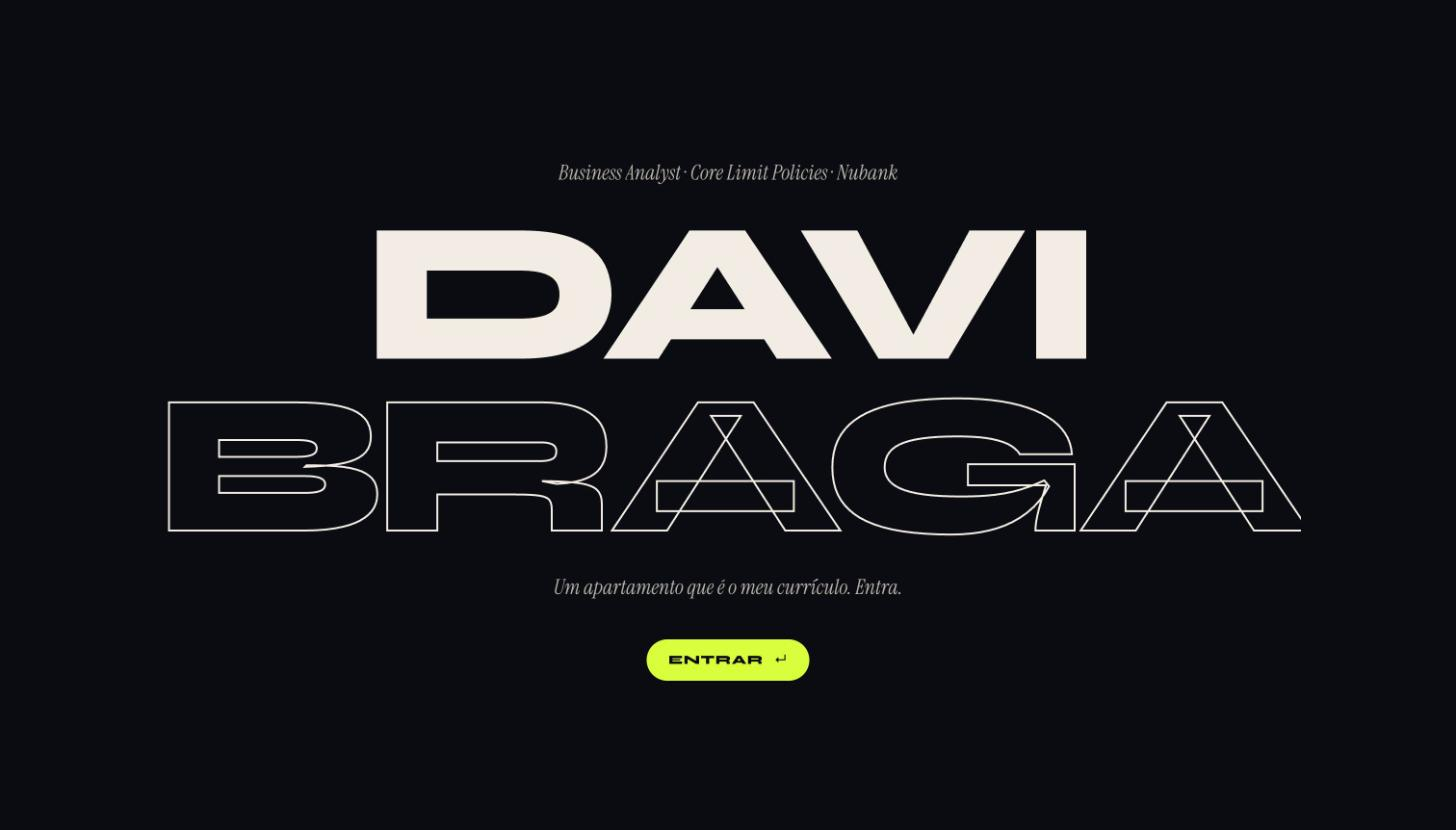
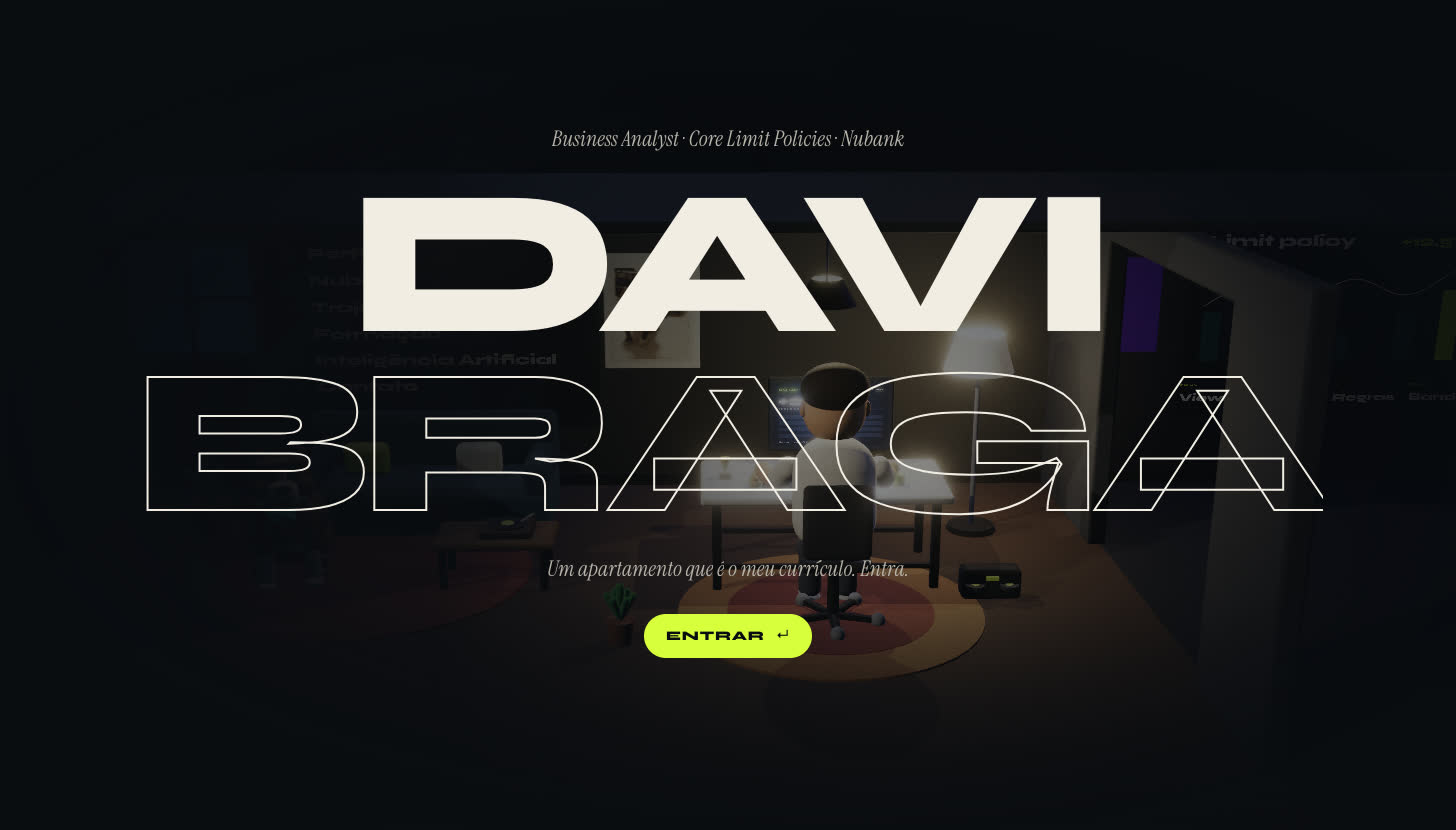
docs: describe the scroll tour and "Fale com o Davi" in the README
The README now matches the site: the ScrollTrigger tour, the Motion
choreography, post-processing, quality tiers, lazy chunks and the
reduced-motion and no-WebGL fallbacks, the ready-made question panel
(no AI behind it), the controls, the stack, how to run the unit and
end-to-end tests, and the performance numbers from the tour work. It
drops what no longer exists: the Observer input, the old phone render
path and main.ts waiting for the fonts. The screenshots are refreshed
and one shows the question panel; the Author section is unchanged.

Changed region(s): [[0.0927, 0.1506, 0.8963, 0.8434]]

diff --git a/README.md b/README.md
@@ -1,10 +1,10 @@
 # davi-diorama
 
-Davi Braga's résumé as an interactive 3D apartment: walk through six rooms, click the objects, read the career.
+Davi Braga's résumé as an interactive 3D apartment: scroll through six rooms, click the objects, read the career, or ask Davi a ready-made question and watch the room answer.
 
-[![A clay-style avatar sits at a desk in a dim 3D living room; the first slide, with the name and a short introduction, is on the left.](docs/diorama-scene.jpg)](https://davi-diorama.vercel.app)
+[![The Nubank room of the 3D apartment: the slide "Core Limit Policies" on the left, a monitoring board on the wall and the clay avatar of Davi standing on the right.](docs/diorama-scene.jpg)](https://davi-diorama.vercel.app)
 
-**[Live demo: davi-diorama.vercel.app](https://davi-diorama.vercel.app)** (the site text is in Portuguese)
+**[Live demo: davi-diorama.vercel.app](https://davi-diorama.vercel.app)** (the site text is in Portuguese; the question panel also speaks English)
 
 [![Live demo](https://img.shields.io/badge/live%20demo-davi--diorama.vercel.app-d8ff3d?style=flat-square&labelColor=0a0c11&logo=vercel&logoColor=white)](https://davi-diorama.vercel.app)
 [![License: MIT](https://img.shields.io/badge/license-MIT-blue?style=flat-square)](LICENSE)
@@ -15,52 +15,87 @@ Davi Braga's résumé as an interactive 3D apartment: walk through six rooms, cl
 
 ## What it is
 
-davi-diorama is a résumé built as a small 3D world instead of a document. A clay-style avatar of Davi starts seated at his desk; scrolling, swiping or pressing a key walks him down a corridor from room to room (profile, Nubank, earlier jobs, education, applied AI, contact) while the camera follows. Objects in the scene open details, play sounds or react when clicked. It is a static front-end app written in TypeScript on top of Three.js, with no backend.
+davi-diorama is a résumé built as a small 3D world instead of a document. A clay-style avatar of Davi starts seated at his desk; one scroll-driven tour walks him down a corridor from room to room (profile, Nubank, earlier jobs, education, applied AI, contact) while the camera follows, and every room is anchored on the object that tells that part of the story. Objects open details, play sounds or react when clicked. "Fale com o Davi" adds a guided conversation: ready-made questions with first-person answers written from the résumé data, played back while the camera and the avatar move. It is a static front-end app written in TypeScript on top of Three.js, with no backend and no AI model behind it.
 
-![Intro screen: "Davi Braga" in large type with a job-title line above it, a one-line subtitle and an "entrar" (enter) button on a dark background.](docs/diorama-intro.jpg)
+![Intro screen: "Davi Braga" in large type over a dim view of the apartment, a job-title line above it, a one-line subtitle and an "entrar" (enter) button.](docs/diorama-intro.jpg)
 
 ## Highlights
 
-- **Walk-through navigation.** Arrow keys, space, PageUp/PageDown, the mouse wheel, a swipe or the keys 1 to 6 move between the six rooms; the section rail and the index (the board on the wall, or the M key) jump straight to one. The avatar stands up, walks the corridor and turns to face each room, driven by GSAP timelines (`src/story.ts`).
-- **A scene you can poke.** The monitor cycles six screens (limit monitoring, SQL, contact, experiment, n8n flow, notebook), the floor lamp toggles a night mode, the boombox and the turntable start a lo-fi loop that makes the wall boards pulse, and the mug, plants, ball, clock, window and string lights react. The dog, Banguela, barks when clicked (typing his name works too).
-- **Everything is generated in code.** The apartment, avatar and dog are built from Three.js primitives with a matte clay material, the wall screens are animated canvas textures, and all sound is synthesized with the Web Audio API. The scene uses no 3D model or audio files, only one photo (the dog's portrait on the wall).
-- **Résumé as data.** Experience, education, skills, projects and thesis live in typed files in `src/data/`. Clicking a board, nameplate or chip opens a side panel (the "dossier") built from them, and some panels include small illustrations: an n8n-style flow runner, a skill before/after toggle, an MCP tool-call viewer, a knapsack picker and test-vs-control bars. The charts drawn in the scene and in these cards are animated illustrations, not company data; the experiment screen and the test-vs-control card say so in the UI.
-- **Phone-friendly.** At 900 px wide or less the app uses a lighter render path (no shadows or antialiasing, capped pixel ratio), a different camera framing, swipe navigation and a bottom-sheet panel.
-- **Layout guard.** The walking route is checked against the furniture footprints when the app starts (`assertWalkRoute` in `src/path.ts`) and by a standalone script, `npm run test:path`.
+- **One scroll tour.** Scroll, trackpad, touch, the keyboard, the section rail and the summary all move a single GSAP timeline scrubbed by ScrollTrigger over a native scroller (`src/tour.ts`). The timeline only moves one number, the tour progress; the camera rides Catmull-Rom splines through one shot per chapter and cranes up between rooms, Davi stands up, walks and sits down again as a function of that same number (`daviAt` in `src/path.ts`), so scrolling back replays everything in reverse. Labels snap to the nearest chapter, and rooms light up as the camera arrives.
+- **Choreographed HUD.** [Motion](https://motion.dev) drives the text and buttons: titles rise letter by letter on a spring, the counters count up to the slide copy, chips and metrics stagger in, buttons press with a spring and the dossier slides in as a modal dialog with its own focus trap.
+- **A scene you can poke.** Hover shows a label and a soft lime highlight; a click frames the object with a smooth camera move (with depth of field on the high tier) and a "voltar" button, and Esc, scroll or a click on empty space returns to the tour. The desk PC plays a live dashboard, the floor lamp toggles a night mode, the boombox and the turntable start a lo-fi loop that makes the wall boards pulse, and the mug, plants, ball, clock, window and string lights react. The dog, Banguela, barks when clicked (typing his name works too).
+- **"Fale com o Davi".** A side panel (a bottom sheet on phones) with 13 ready-made questions in Portuguese and English, opened by the floating button, the chip in the toolbar or the T key. Each answer is written in the first person only from `src/data` (the tests check that every number in an answer already exists there and that no answer passes 80 words), types out with subtitles over the scene, and drives the tour through `sceneApi()` in `src/story.ts`: the camera glides to the matching chapter, frames the board it talks about, and the matching card opens; Davi turns to the viewer, talks and gestures (wave, nod, think, point). There is no text box and nothing is generated; the panel says so ("Respostas prontas, escritas a partir do currículo do Davi"). An optional voice uses the browser's own speech synthesis. While the panel is open the tour under it holds still, and Esc closes the panel first.
+- **Rendering that fits the device.** `src/quality.ts` guesses a low, mid or high tier from the GPU and the device, then corrects it from real frame intervals (pixel ratio first, the tier last); `?q=low|mid|high` pins a tier. `src/post.ts` merges bloom, ACES tone mapping, vignette and grain into one pass, with depth of field as a separate pass only while an object is in focus. Static meshes are batched by material and room (189 meshes become 52 draws), and the shadow maps redraw only when something moves.
+- **Fast first paint, lazy everything else.** `main.ts` paints the intro and a real progress bar; the 3D engine downloads after the first paint as its own chunk, the room is built in short tasks, shaders and textures warm up behind the intro, post-processing is another chunk, and the question panel loads on its first open.
+- **Fallbacks and access.** With reduced motion, chapters cut with a short fade, Davi is placed instead of walking, counters show their final values and the question panel shows each answer at once and only highlights the chapter in the rail. Without WebGL the same résumé (slides, rail, keys, cards, questions) runs over a still of the room. On phones the room fills the top half above the card, titles shrink to fit and tap targets are 44 px. The HUD stays inert under the intro, both dialogs trap focus, and answers are announced with `aria-live`.
+- **Résumé as data.** Experience, education, skills, projects and thesis live in typed files in `src/data/`. Boards, nameplates and chips open cards built from them, some with small illustrations: an n8n-style flow runner, a skill before/after toggle, an MCP tool-call viewer, a knapsack picker and test-vs-control bars. The charts in the scene and in these cards are illustrations, not company data, and the screens and cards that show a number say so.
+- **Everything is generated in code.** The apartment, avatar and dog are built from Three.js primitives with a matte clay material, the wall screens are animated canvas textures and all sound is synthesized with the Web Audio API. The scene uses no 3D model or audio files, only one photo (the dog's portrait on the wall).
+- **Layout guard.** The walking route is checked against the furniture footprints when the app starts (`assertWalkRoute` in `src/path.ts`), the tour is sampled in development so Davi never overlaps furniture (`assertTourClear`), and `npm run test:path` runs the corridor check on its own.
+
+![The question panel open on the left with the answer to "O que você faz no Nubank?", follow-up questions below it, and the camera framing the Core Limit board on the right with a subtitle under it.](docs/diorama-talk.jpg)
+
+## Performance
+
+Measured on the production build when the tour was rebuilt:
+
+- Lighthouse mobile performance 89 → 97
+- Total Blocking Time 331 → 87 ms
+- Entry chunk 14.8 kB; the question panel later added 0.3 kB to it, a 2 kB loader once the room is ready and a 38 kB chunk that loads on its first open
 
 ## How it works
 
 ```mermaid
 flowchart LR
-  main["main.ts<br/>waits for fonts"] --> story["story.ts<br/>input, camera and walk timelines,<br/>picking, render loop"]
+  main["main.ts<br/>intro and loader,<br/>lazy 3D after first paint"] --> story["story.ts<br/>picking, focus, frame loop,<br/>sceneApi()"]
+  story --> tour["tour.ts<br/>ScrollTrigger timeline,<br/>camera path"]
+  story --> pathm["path.ts<br/>Davi's walk, furniture"]
   story --> world["world.ts<br/>rooms, props, lights"]
   story --> puppet["puppet.ts<br/>Davi and Banguela"]
-  story --> audio["audio.ts<br/>Web Audio"]
-  story --> copy["copy.ts<br/>slide and card text"]
-  story <--> hud["hud.ts<br/>slides, rail, dossier"]
+  story --> quality["quality.ts<br/>tiers, adaptive pixel ratio"]
+  story --> post["post.ts<br/>bloom, depth of field"]
+  story <--> hud["hud.ts<br/>slides, rail, dossier (Motion)"]
   world --> boards["boards.ts<br/>canvas screens"]
-  data["src/data/<br/>résumé content"] --> copy
+  data["src/data/<br/>résumé content"] --> copy["copy.ts<br/>slide and card text"]
   copy --> hud
   hud --> live["live.ts<br/>widgets inside cards"]
-  path["path.ts<br/>furniture and corridor"] --> story
+  main --> talk["talk/<br/>Fale com o Davi"]
+  talk -- "sceneApi()" --> story
+  data --> talk
 ```
 
-`main.ts` waits for the web fonts, then `story.ts` creates the WebGL renderer, builds the scene (`world.ts`, `puppet.ts`) and binds the HUD (`hud.ts`). The story keeps one piece of state, the current room. Moving to another room plays a GSAP timeline that tweens the camera, walks the avatar along the corridor and shows the matching slide. A pointer raycast finds the object under the cursor; each pickable object carries a `{ kind, id }` tag that either runs a small reaction or asks `copy.ts` for a card to show in the dossier.
+`main.ts` shows the intro and the loader at once, then imports `story.ts` after the first paint. The story opens one WebGL2 context, picks a quality tier, builds the room in short tasks (`world.ts`, `puppet.ts`, `batch.ts`), warms the shaders and binds the HUD (`hud.ts`). From then on a single number drives the page: ScrollTrigger maps the scroll position to the tour progress, and each frame derives the camera pose, Davi's pose, the lit room and the slide from it. A pointer raycast finds the object under the cursor; each pickable carries a `{ kind, id }` tag that runs a small reaction or asks `copy.ts` for a card.
+
+The question panel lives in `src/talk/`. `boot.ts` adds the entry points, `panel.ts` plays the answers in `qa.ts`, and `bridge.ts` talks to the scene only through `sceneApi()` (go to a chapter, focus an object, open a card, and Davi's puppet for the talk animation). `catalog.ts` lists the chapter, object and card ids an answer may use, and anything else is ignored.
 
 Inspiration: the diorama camera and the matte look are inspired by [david-hckh.com](https://david-hckh.com/) ([portfolio-2025](https://github.com/davidhckh/portfolio-2025)). No model or texture from that project is used here.
 
+## Controls
+
+| Input | What it does |
+| --- | --- |
+| Scroll, trackpad, swipe | Walk the tour (the wheel over the text column works too) |
+| ← → ↑ ↓, Space, PageUp, PageDown | Previous or next chapter |
+| Home, End, 1 to 6 | Jump to a chapter |
+| Click or tap an object | Frame it and open its card or reaction |
+| M | Summary |
+| C | Copy the contact e-mail |
+| S | Lo-fi music on and off |
+| T | Open "Fale com o Davi" |
+| Esc | Close the question panel, then a card, then leave the framed object |
+
 ## Tech stack
 
-- **3D:** Three.js r169 (WebGL)
-- **Motion and input:** GSAP 3 (timelines, `quickTo`, the Observer plugin for wheel and touch)
+- **3D:** Three.js r169 (WebGL2) and [postprocessing](https://github.com/pmndrs/postprocessing) for bloom, tone mapping and depth of field
+- **Motion and input:** GSAP 3 with ScrollTrigger and ScrollToPlugin for the tour, Motion for the HUD
 - **Language and tooling:** TypeScript 5 (strict mode), Vite 6
-- **Sound and textures:** Web Audio API and Canvas 2D, generated at runtime
-- **Fonts:** Syne, Instrument Serif and JetBrains Mono (Google Fonts)
+- **Tests:** Vitest (unit) and Playwright (end-to-end, Chromium)
+- **Sound, voice and textures:** Web Audio API, Web Speech API (optional voice) and Canvas 2D, all at runtime
+- **Fonts:** Syne, Instrument Serif and JetBrains Mono (Google Fonts faces, inlined in the CSS)
 - **Hosting:** Vercel, with security headers set in `vercel.json`
 
 ## Run locally
 
-Requires Node.js 18 or newer (a Vite 6 requirement).
+Requires Node.js 22.12 or newer (for Vitest; the site itself builds with Vite 6).
 
 ```bash
 git clone https://github.com/DaviBragaBA/davi-diorama.git
@@ -76,30 +111,42 @@ The dev server runs at <http://localhost:5173>. Other scripts from `package.json
 | `npm run build` | Type-checks with `tsc`, then builds to `dist/` with Vite |
 | `npm run preview` | Serves the production build locally |
 | `npm run test:path` | Checks the walking corridor against the furniture layout |
+| `npm run test:unit` | Vitest: the ready-made answers (ids, follow-ups, both languages, 80 words, numbers found in `src/data`), the scene whitelist against the scene source, the bridge to `sceneApi()` and the playback helpers |
+| `npm run test:e2e` | Builds, serves the build and runs Playwright at 1456x830 and 390x844: the question panel end to end, focus trap and Esc, the tour holding still under the panel, reduced motion and the no-WebGL fallback |
+
+Before the first `npm run test:e2e`, install the browser once with `npx playwright install chromium`. The tests run the full Chromium in headless mode so WebGL renders on the GPU.
 
 ## Project structure
 
 ```text
 davi-diorama/
 ├── docs/                 screenshots used in this README
-├── index.html            page shell: intro, slide, rail, dossier and toolbar markup
-├── public/fotos/         the one photo used in the scene (the dog's portrait)
+├── index.html            page shell: intro and loader, tour scroller, slide, rail, dossier and toolbar markup
+├── public/               the dog's photo, the no-WebGL still, the link preview and the icons
 ├── scripts/
 │   └── check-path.mjs    corridor-vs-furniture check (npm run test:path)
 ├── src/
-│   ├── main.ts           entry point: waits for fonts, starts the story
-│   ├── story.ts          input, camera and walk timelines, picking, render loop
+│   ├── main.ts           entry point: intro and loader, then the 3D chunk after the first paint
+│   ├── loader.ts         the intro's progress bar, driven by real loading stages
+│   ├── story.ts          picking, focus, hover, actions, the frame loop and sceneApi()
+│   ├── tour.ts           the ScrollTrigger timeline and the camera path
+│   ├── path.ts           furniture footprints, the corridor and Davi's walk
 │   ├── world.ts          rooms, furniture, lights and pickable objects
 │   ├── puppet.ts         the clay avatar (Davi) and the dog (Banguela)
 │   ├── boards.ts         canvas-textured wall boards and screens
+│   ├── quality.ts        quality tiers and the adaptive pixel ratio
+│   ├── post.ts           post-processing (its own lazy chunk)
+│   ├── batch.ts          static batching of meshes by material and room
 │   ├── clay.ts           materials, geometry helpers and the palette
-│   ├── hud.ts            slides, section rail, dossier panel and toasts
+│   ├── hud.ts            slides, section rail, dossier, hover label and toasts
+│   ├── anim.ts           the parts of Motion the HUD uses
 │   ├── copy.ts           slide and card text built from the data files
 │   ├── live.ts           small interactive widgets inside dossier cards
 │   ├── audio.ts          Web Audio: lo-fi loop and sound effects
-│   ├── path.ts           furniture footprints and the walking corridor
+│   ├── talk/             "Fale com o Davi": questions and answers, panel, playback, voice, bridge to the scene
 │   ├── data/             résumé content: experience, education, skills, projects, thesis
 │   └── style.css         HUD, dossier and responsive styles
+├── tests/                Vitest unit tests and Playwright end-to-end tests
 ├── vercel.json           security headers
 └── SECURITY.md, CONTRIBUTING.md, AGENTS.md, LICENSE
 ```
